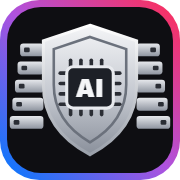
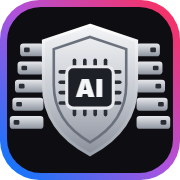
fix: terminais do chip centralizados no símbolo

diff --git a/frontend/components/logo-mark.tsx b/frontend/components/logo-mark.tsx
@@ -67,12 +67,12 @@ function Emblem() {
       />
 
       {/* Chip com terminais */}
-      {[24.5, 28.5, 32.5, 36.5].map((at) => (
+      {[26, 30, 34, 38].map((at) => (
         <g key={at} stroke="#2a2d34" strokeWidth={1.4} strokeLinecap="round">
           <line x1={at} y1={20.5} x2={at} y2={23} />
           <line x1={at} y1={39} x2={at} y2={41.5} />
-          <line x1={20.5} y1={at + 1} x2={23} y2={at + 1} />
-          <line x1={41} y1={at + 1} x2={43.5} y2={at + 1} />
+          <line x1={20.5} y1={at - 1} x2={23} y2={at - 1} />
+          <line x1={41} y1={at - 1} x2={43.5} y2={at - 1} />
         </g>
       ))}
       <rect x={23} y={23} width={18} height={16} rx={2.5} fill="#1d2027" stroke="#e8eaee" strokeWidth={1.2} />
